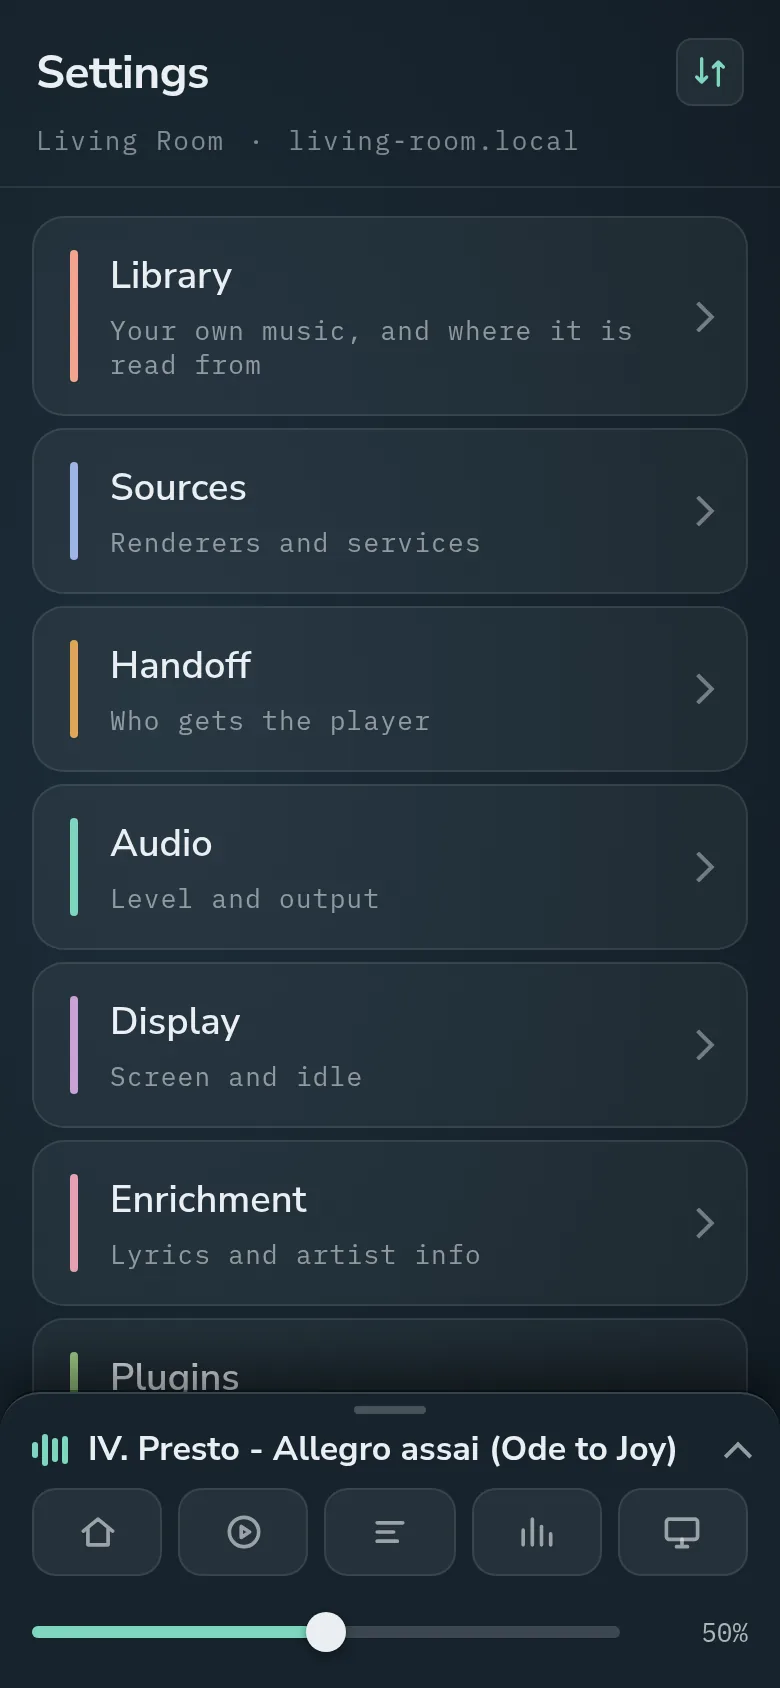
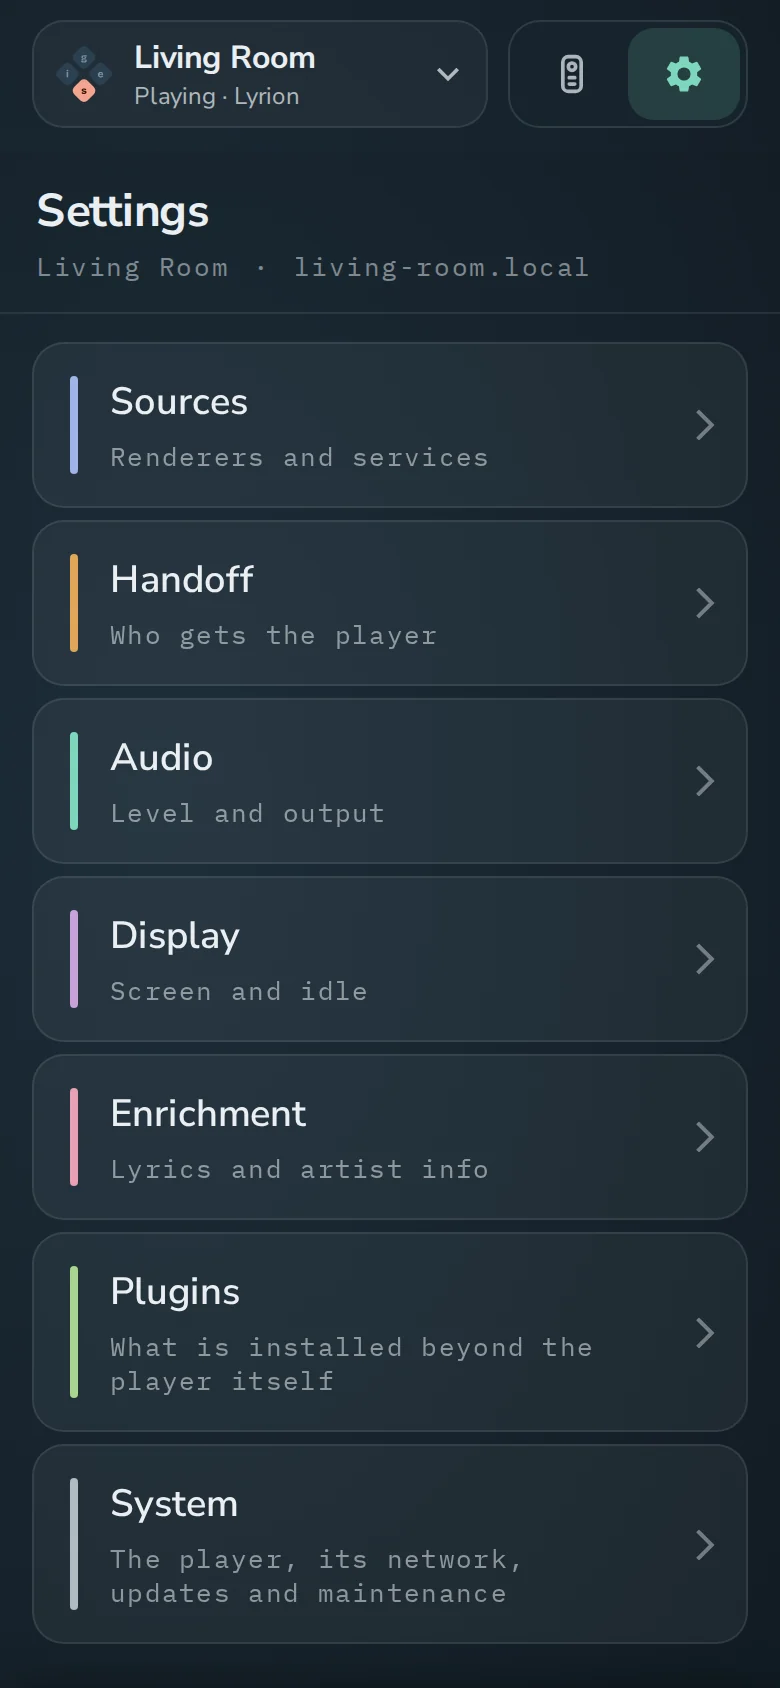
Manual: the phone remote; its pictures from the demo library, the old phone page's gone; the gallery; the typing strip whenever a field has focus

diff --git a/ui/src/screens/remote/PhoneRemote.svelte b/ui/src/screens/remote/PhoneRemote.svelte
@@ -123,18 +123,16 @@
   let typing = $state(false);
   let typeEl = $state(null);
   let typed = '';
-  let touchedAt = 0;
-  const touch = () => (touchedAt = Date.now());
-  //: A field the panel focuses shows the sheet only on the phone that was
-  //: just driving it, not on every phone open on the player.
-  const DRIVING_MS = 3000;
   $effect(() => {
     if (!(hasScreen && padAllowed && page === 'remote')) return;
     const s = openTouchpad((message) => {
       if (message.t === 'ring') ringField = !!message.field;
       else if (message.t === 'focus') {
-        if (message.field && Date.now() - touchedAt < DRIVING_MS) typing = true;
-        else if (!message.field) stopTyping();
+        // The design's: while a field on the screen has focus, however it
+        // got it - a tap on the panel itself included, so a phone can type
+        // into the field a finger chose there (a dashboard's sign-in).
+        if (message.field) typing = true;
+        else stopTyping();
       } else if (message.t === 'untyped') say('Some characters could not be typed on the player');
     });
     socket = s;
@@ -229,7 +227,7 @@
       <div class="track" style:transform={page === 'settings' ? 'translateX(-50%)' : 'none'}>
         <div class="page" inert={page !== 'remote'}>
           {#if hasScreen}
-            <RemoteScreen {pad} onpad={choosePad} padSwitch={padAllowed} {socket} onok={beforeOk} ontouch={touch}
+            <RemoteScreen {pad} onpad={choosePad} padSwitch={padAllowed} {socket} onok={beforeOk}
                           onsay={say} oneq={() => { eqOpen = true; stopTyping(); }} />
           {:else}
             <RemoteNoScreen onsay={say} oneq={() => (eqOpen = true)} />

diff --git a/ui/src/screens/remote/QuickActions.svelte b/ui/src/screens/remote/QuickActions.svelte
@@ -13,7 +13,7 @@
   import { showing, standby, view } from './commands.js';
   import { STROKED } from './icons.js';
 
-  let { onsay = () => {}, ontouch = () => {} } = $props();
+  let { onsay = () => {} } = $props();
 
   const hasDashboard = $derived(!!($settingValues.dashboard_url ?? '').trim() && $settingValues.dashboard_button !== false);
   const idleOn = $derived($settingValues.idle_enabled === true);
@@ -21,14 +21,13 @@
   const lit = (which) => !off && $showing === which;
 
   function go(which) {
-    ontouch();
     view(which, (text) => onsay(text));
   }
 </script>
 
 <div class="actions">
   <button class="act" class:is-on={off} type="button" aria-label={off ? 'Screen on' : 'Standby'} aria-pressed={off}
-          onclick={() => { ontouch(); standby(!off); }}>
+          onclick={() => standby(!off)}>
     <svg viewBox="0 0 24 24" aria-hidden="true"><path d={STROKED.standby} /></svg>
   </button>
   {#if idleOn}

diff --git a/ui/src/screens/remote/TouchArea.svelte b/ui/src/screens/remote/TouchArea.svelte
@@ -25,7 +25,6 @@
     padSwitch = true,
     socket = null,
     onok = () => {},
-    ontouch = () => {},
     onsay = () => {},
   } = $props();
 
@@ -44,7 +43,6 @@
   let sentTimer;
   let goneTimer;
   function press(name, quiet = false) {
-    ontouch();
     if (name === 'ok') onok();
     key(name);
     if (quiet) return;
@@ -126,7 +124,6 @@
     el.setPointerCapture?.(event.pointerId);
     strip = { id: event.pointerId, axis, at: axis === 'y' ? event.clientY : event.clientX };
     thumb = { axis, f: fraction(event, el, axis) };
-    ontouch();
   }
   function stripMove(event) {
     if (!strip || event.pointerId !== strip.id) return;
@@ -144,7 +141,6 @@
   }
 
   function corner(which) {
-    ontouch();
     view(which, onsay);
   }
 </script>

diff --git a/ui/src/screens/remote/RemoteScreen.svelte b/ui/src/screens/remote/RemoteScreen.svelte
@@ -15,7 +15,7 @@
   import VolumeRow from './VolumeRow.svelte';
   import { FILLED } from './icons.js';
 
-  let { pad, onpad, padSwitch, socket, onok, ontouch, onsay, oneq } = $props();
+  let { pad, onpad, padSwitch, socket, onok, onsay, oneq } = $props();
 
   const hasTrack = $derived(!!$active);
   let failed = $state(null);
@@ -55,8 +55,8 @@
     <RemoteTransport />
   </div>
 
-  <TouchArea {pad} {onpad} {padSwitch} {socket} {onok} {ontouch} {onsay} />
-  <QuickActions {onsay} {ontouch} />
+  <TouchArea {pad} {onpad} {padSwitch} {socket} {onok} {onsay} />
+  <QuickActions {onsay} />
   <div class="volume"><VolumeRow {oneq} {onsay} /></div>
 </div>
 

diff --git a/ui/src/screens/remote/RemoteTransport.svelte b/ui/src/screens/remote/RemoteTransport.svelte
@@ -69,11 +69,13 @@
 </div>
 
 <style>
+  /* The design's gaps at its 412 px; narrower, they give way first, so the
+     five buttons keep their size on a 360 px phone. */
   .transport {
     display: flex;
     align-items: center;
     justify-content: center;
-    gap: 24px;
+    gap: max(4px, min(24px, calc((100% - 272px) / 4)));
     --tg: 44px;
     --tg-glyph: 22px;
     --sk: 56px;
@@ -83,7 +85,7 @@
     --pl-play: 38px;
   }
   .transport.is-big {
-    gap: 18px;
+    gap: max(4px, min(18px, calc((100% - 308px) / 4)));
     --tg: 48px;
     --tg-glyph: 24px;
     --sk: 64px;

diff --git a/docs/manual/README.md b/docs/manual/README.md
@@ -223,7 +223,7 @@ and its button says *Play playlist*.
 
 **Search**: tap a search field and type on your phone (section 7); results
 arrive as you type. A service's *Search* opens straight on its field, and
-tapped from the phone's touchpad it brings up the phone's keyboard. My Music's Search looks for artists, albums, works,
+chosen from the phone's remote it brings up the phone's keyboard. My Music's Search looks for artists, albums, works,
 songs and playlists at once.
 
 A few things are left out on purpose:
@@ -305,10 +305,10 @@ two things are set there, by whoever runs it:
    Assistant's *trusted networks* (`auth_providers` in `configuration.yaml`,
    with `allow_bypass_login: true`), so the dashboard opens without a login;
    or sign in once on the panel - Home Assistant then keeps the player signed
-   in. To sign in, tap the fields with a finger and type on a USB keyboard
-   plugged into the player, or use the phone page: its touchpad taps inside
-   the dashboard where the pointer is, and its keyboard types there. The
-   phone types the characters the player's keyboard layout has (a US layout
+   in. To sign in, tap a field on the panel and type on a USB keyboard
+   plugged into the player, or on the phone: while a field on the screen is
+   chosen, the remote offers the phone's keyboard (tap *Typing on the
+   player's screen* if it is not up). The phone types the characters the player's keyboard layout has (a US layout
    unless set otherwise); one it lacks is left out, and the phone says so.
 
 Home Assistant's own header and side bar show unless the dashboard or the
@@ -377,8 +377,8 @@ The screen can be used without touching it: with Home Assistant's *D-pad*
   open - a sheet, the volume, the tray - or goes back one step, and on Now
   Playing minimises it. On Home it does nothing.
 - The ring shows at the first press, where it was last on that screen, or on
-  the screen's main control (Play/Pause on Now Playing). A touch, the
-  phone's touchpad and the idle screen hide it.
+  the screen's main control (Play/Pause on Now Playing). A touch and the
+  idle screen hide it. The phone's remote moves it too (section 7).
 - On a slider, Left and Right change the value; Up and Down leave it.
 - On a bar, Up from the top row brings the tray down.
 - While the screen is dark, or the visualiser or the idle screen is up, the
@@ -394,71 +394,73 @@ Open the player's address in a phone's browser, for example
 Nothing needs installing; the phone and the player only need to be on the
 same network.
 
-![Phone: Settings](images/phone-settings.webp)
+The phone page is a **remote** for the player. At the top, the player's
+name with what it is doing (*Playing · Lyrion*, *Paused · Spotify*,
+*Idle*) and a switch between two pages, **Remote** and **Settings**. Tap
+the name for every Gexis player on the network, each with what it is
+doing, and choose one to open its remote in the same tab.
 
-The phone page shows **Settings** above and the **mini player** at the
-bottom. With more than one player on the network, a switch button sits at
-the right of the *Settings* title: tap it for every player, each with what it is doing - *Playing · Spotify*, *Stopped · Lyrion*,
-*Idle* - and choose one to open its page in the same tab.
+### The remote, with a screen
 
-The mini player has:
+![Phone: the remote](images/phone-remote.webp)
 
-- **the track playing**, with **play/pause**;
-- **the panel**: its **Screen off** switch in the heading (the panel's screen
-  off until a touch, music starting or the switch again wakes it; the player
-  keeps playing, and some screens show their own "No signal" for a few
-  seconds first), and under it what the panel shows, one round button each:
-  **Home**, **Playing** (tap again to minimise it), **Lyrics**, **Meters**
-  (the visualiser), **Room** (the Home Assistant dashboard, once its address
-  is set) and **Idle** (not offered while the idle screen is switched off).
-  The one the panel shows is outlined;
-- the volume slider. A tap sets the level where it lands and a sideways
-  drag moves it; a swipe up or down that starts on the slider changes
-  nothing;
-- beside it, the **EQ** button with the setting in use. It opens the mini
-  player, where the **Equaliser** row has its switch, the settings to change
-  to and **Edit**, which opens the whole equaliser. On the phone the bands
-  are rows, each a slider sideways from 0, and the setting is chosen from a
-  list.
+For a player with a screen, the remote has, from the top:
 
-Swipe the mini player up, or tap its arrow, for the **touchpad**, which
-opens between the track and the row.
+- **what is playing**: the cover, the track, the artist and the album, how
+  far into the track it is, and the controls - shuffle, previous, play or
+  pause, next and repeat (off, all, one). A source that has no shuffle or
+  repeat shows none.
+- **the touch area**, which drives the player's screen from across the room.
+  Its corners are **Home**, **Lyrics**, **Back** and **Meters** (the
+  visualiser); the one the screen shows is lit. The switch at its top
+  chooses how:
+  - **Touchpad**: swipe to move around the screen and tap to choose. Each
+    short swipe moves one step, a longer one several, and the steps are named
+    under the area (*Right × 2*). The lines along the right and bottom edges
+    scroll the list the screen is on: drag along them.
+  - **D-pad**: the four arrows and OK, as buttons.
 
-### The touchpad
+  A teal ring on the screen shows where you are, as with Home Assistant's
+  D-pad. The phone remembers which of the two you used last.
+- **quick actions**: **Standby** (the screen off until a touch, music
+  starting or Standby again wakes it; the player keeps playing), **Idle
+  screen** (while the idle screen is switched on), **Playing** (Now Playing,
+  or back to the strip when it is up) and **Room** (the Home Assistant
+  dashboard, once its address is set). While in standby the views are dimmed,
+  and any of them, a corner or the touch area wakes the screen.
+- **the volume**: tap or drag anywhere on the bar. The speaker at its left
+  mutes and unmutes; the equaliser's setting is named in the middle. With
+  *Fixed output* the bar says so instead.
 
-![Phone: the touchpad](images/phone-sheet-open.webp)
+When a text field on the screen is chosen (a search, for example), the
+phone's keyboard comes up and a strip says *Typing on the player's screen*:
+what you type appears on the screen. **Done** puts the keyboard away.
 
-Tap the track name, or swipe the sheet up, to open it: its large area is a
-**touchpad** for the panel, so you can drive the screen from across the room.
-Swipe it down to close it.
+### The remote, without a screen
 
-| Gesture | Does |
-| --- | --- |
-| One finger | Moves the pointer on the panel. |
-| Tap | Presses what the pointer is on. |
-| Two fingers up or down, or sideways | Scroll what is under the pointer. |
-| One finger along the right or bottom edge line | Scrolls with one finger. |
-| Pinch | Zooms the panel in or out around the pointer. |
+![Phone: the remote for a player without a screen](images/phone-remote-noscreen.webp)
 
-Tap a text field on the panel (a search, for example) and the phone's
-keyboard comes up: what you type appears on the panel. Whatever the pointer
-is over that can be pressed is outlined, and the dot shrinks inside the
-outline (Now Playing's tabs are underlined instead); only the part that
-shows is outlined, so a button half under the
-mini strip is outlined down to the strip. A track whose Play, Queue and Add
-buttons are showing is not outlined itself. The pointer hides after a few
-seconds of rest. *Settings → Display* sets **Pointer speed**,
-**Pointer style** (Dot or Arrow), and whether the touchpad is offered at
-all (**Phone touchpad**). While the visualiser is up, a tap on the touchpad
-only closes it, as a tap on the screen does. A tap outside the open sheet just closes it, so
-nothing behind it is pressed by mistake.
+For a player without a screen there is nothing to drive, so the remote has
+a large cover, the track, a bar to move through it (drag or tap; with Lyrion
+and Spotify), larger controls and the volume.
+
+### The equaliser
+
+![Phone: the equaliser](images/phone-eq-sheet.webp)
+
+The button beside the volume opens the **equaliser**: its switch, the
+settings as a row of buttons (the presets, then your own), and what it does
+to the level. **Edit bands in Settings** opens the whole equaliser, where on
+the phone each band is a row, a slider sideways from 0.
 
 ### Settings on the phone
 
-![Phone: Display settings](images/phone-settings-display.webp)
+![Phone: Settings](images/phone-settings.webp)
 
-Every setting can be changed from the phone, which is the easier place to
-type a name, a password or a key.
+**Settings** has every setting, and the phone is the easier place to type a
+name, a password or a key. *Settings → Display → Touchpad* has **Phone
+touchpad**: off, the remote's touch area offers the D-pad alone, and no
+typing.
 
 ## 8. Bar screens
 

diff --git a/docs/SCREENSHOTS.md b/docs/SCREENSHOTS.md
@@ -70,13 +70,13 @@ Two of the skins, on the 10.1" panel and on the 11.9" bar.
 
 ## On a phone
 
-Settings and the mini player, in the phone's browser. No app to install.
+A remote for the player, in the phone's browser. No app to install.
 
 <table>
 <tr>
+<td align="center" valign="top"><img src="manual/images/phone-remote.webp" alt="The remote" width="260"><br><sub>The remote</sub></td>
+<td align="center" valign="top"><img src="manual/images/phone-remote-noscreen.webp" alt="The remote for a player without a screen" width="260"><br><sub>Without a screen</sub></td>
 <td align="center" valign="top"><img src="manual/images/phone-settings.webp" alt="Settings" width="260"><br><sub>Settings</sub></td>
-<td align="center" valign="top"><img src="manual/images/phone-sheet-open.webp" alt="The touchpad and mini player" width="260"><br><sub>The touchpad and mini player</sub></td>
-<td align="center" valign="top"><img src="manual/images/phone-settings-display.webp" alt="Display settings" width="260"><br><sub>Display settings</sub></td>
 </tr>
 </table>
 
